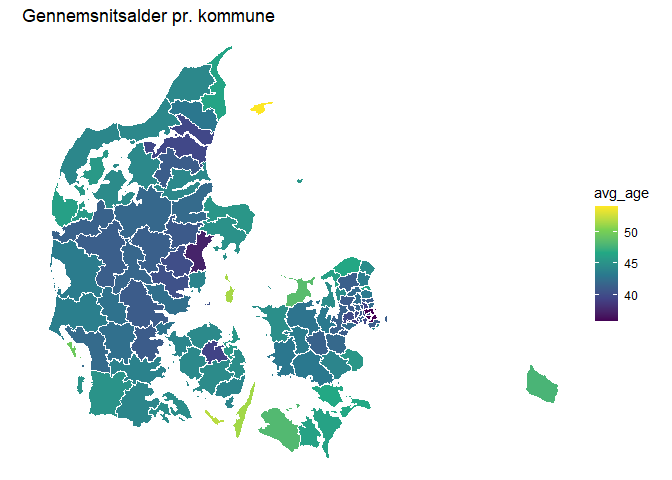
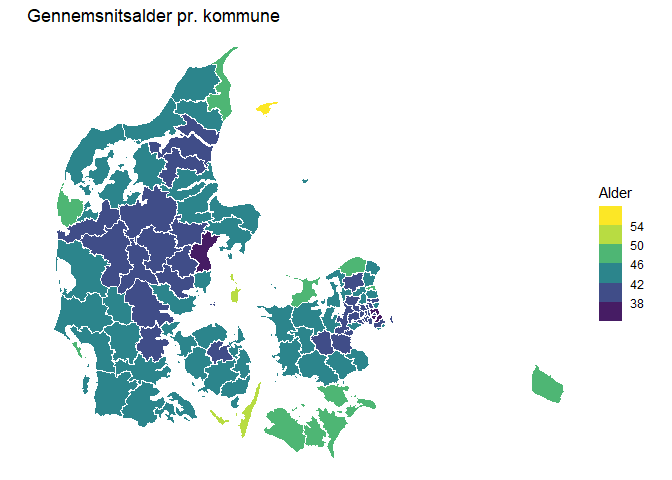
new link

diff --git a/README.md b/README.md
@@ -15,9 +15,7 @@ regioner, kommuner and sogne
 may be installed using the following command
 
 ``` r
-devtools::install_github("HaemAalborg/ccostr")
-# Or including a vignette that demonstrates the bias and coverage of the estimators
-devtools::install_github("HaemAalborg/ccostr", build = TRUE, build_opts = c("--no-resave-data", "--no-manual"))
+devtools::install_github("LarsHernandez/dagir")
 ```
 
 # Overview
@@ -48,7 +46,7 @@ data(geo_kommuner)
 
 ggplot() +
   geom_sf(data = geo_kommuner, color = "white", aes(fill=avg_age), size = 0.05) + 
-  scale_fill_viridis_c()+
+  scale_fill_viridis_b("Alder",breaks=seq(30,70,4))+
   labs(title="Gennemsnitsalder pr. kommune") +
   theme_void()
 ```
